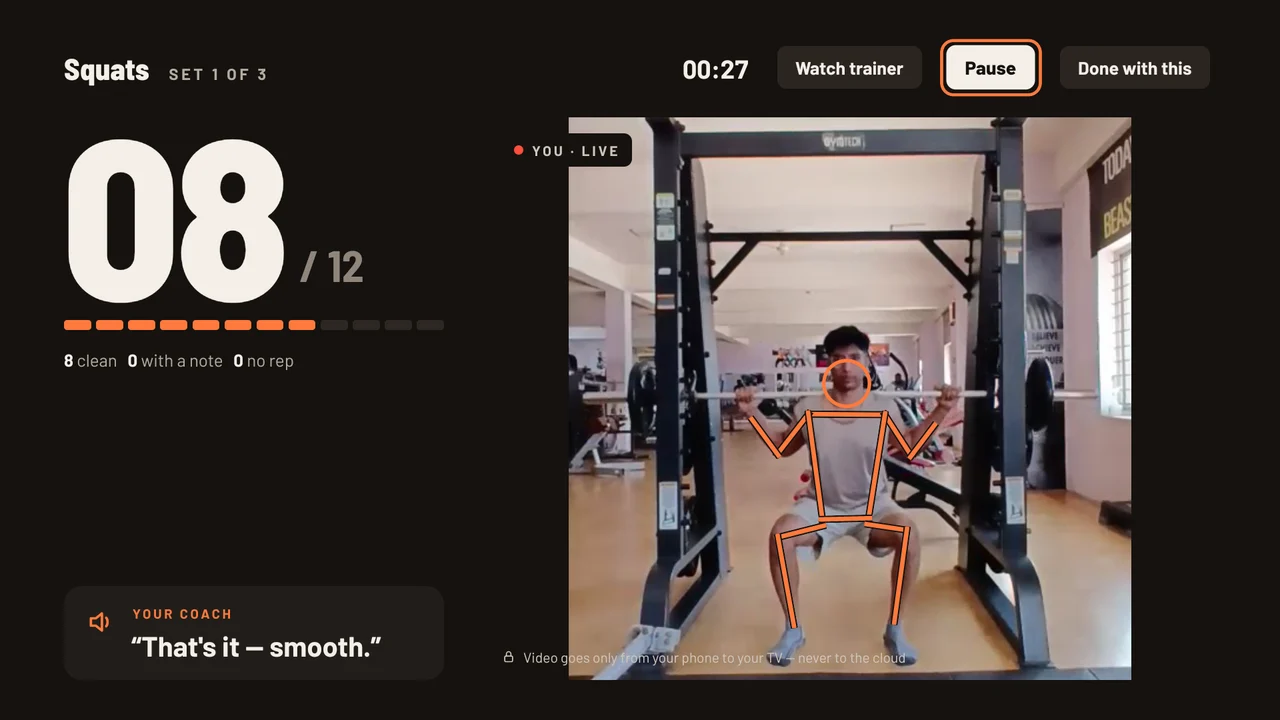
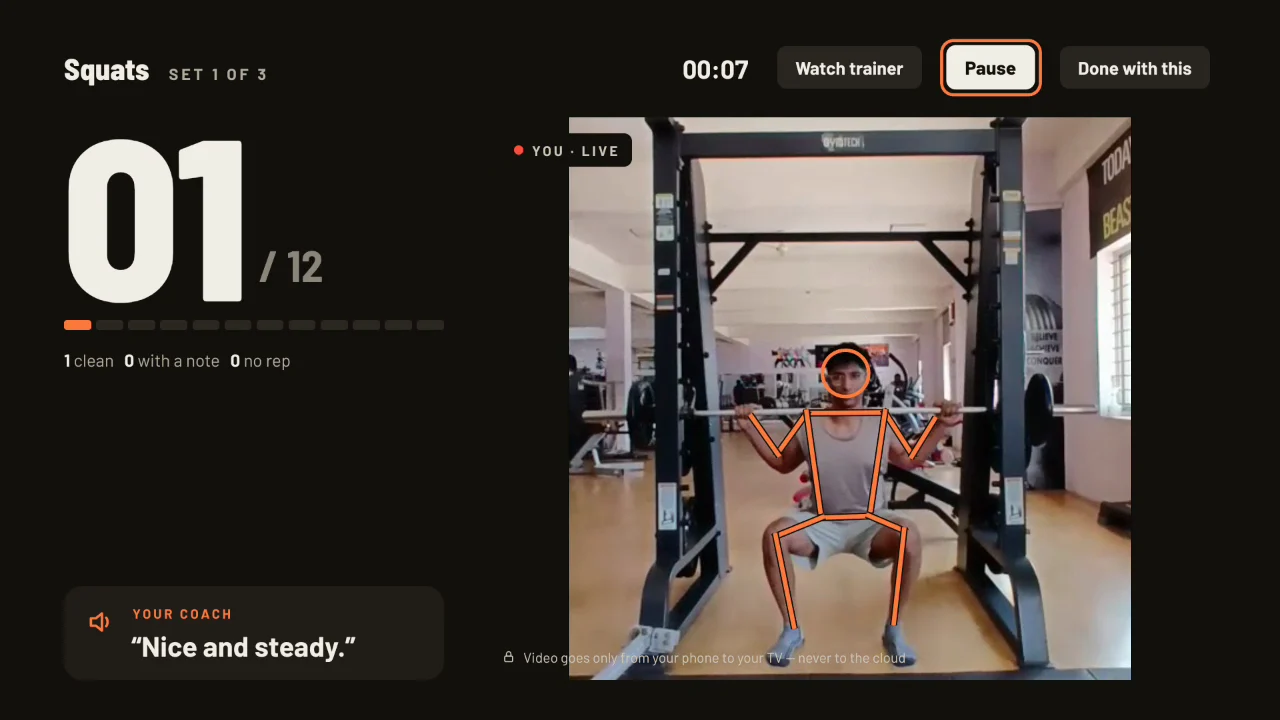
Pairing and live-set shots taken at still moments, skeleton on the body

diff --git a/index.html b/index.html
@@ -45,7 +45,7 @@
         </div>
         <div class="devices">
           <div class="tv">
-            <img src="assets/img/tv-live-video.webp" width="1280" height="720" alt="RepCast on a Fire TV: live video of a lifter at the bottom of a squat in a gym, an orange skeleton drawn on him, the rep count 08 of 12, and the coach saying “That's it — smooth.”">
+            <img src="assets/img/tv-live-video.webp" width="1280" height="720" alt="RepCast on a Fire TV: live video of a lifter at the bottom of a squat in a gym, an orange skeleton drawn on him, the rep count and the coach's line">
           </div>
           <div class="phone">
             <img src="assets/img/phone-live.webp" width="585" height="1266" alt="The phone camera page: the same lifter at the bottom of a squat with the skeleton, 6 of 12, knee at 70°, and “Good rep”.">
